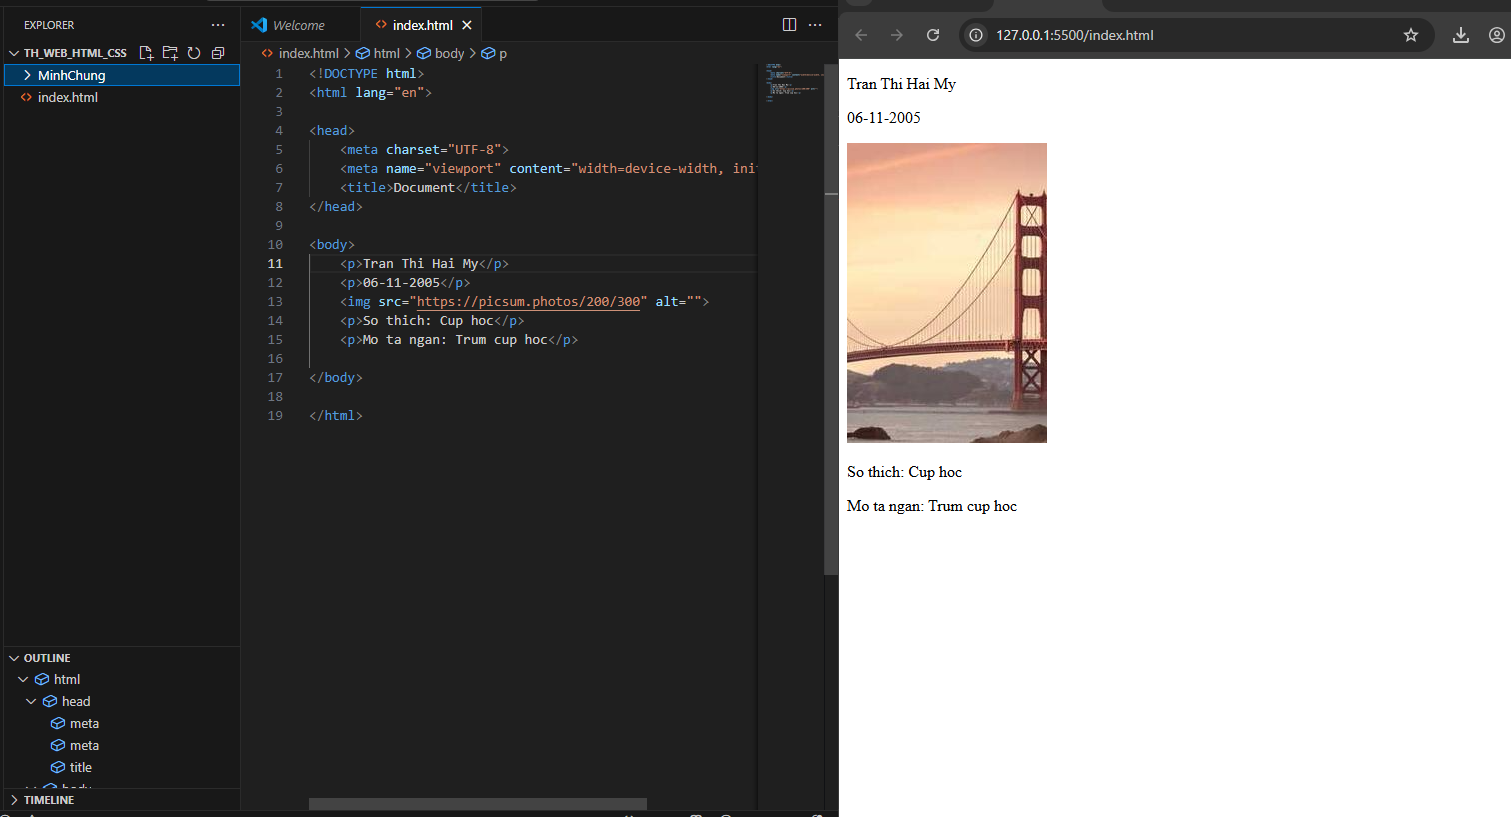
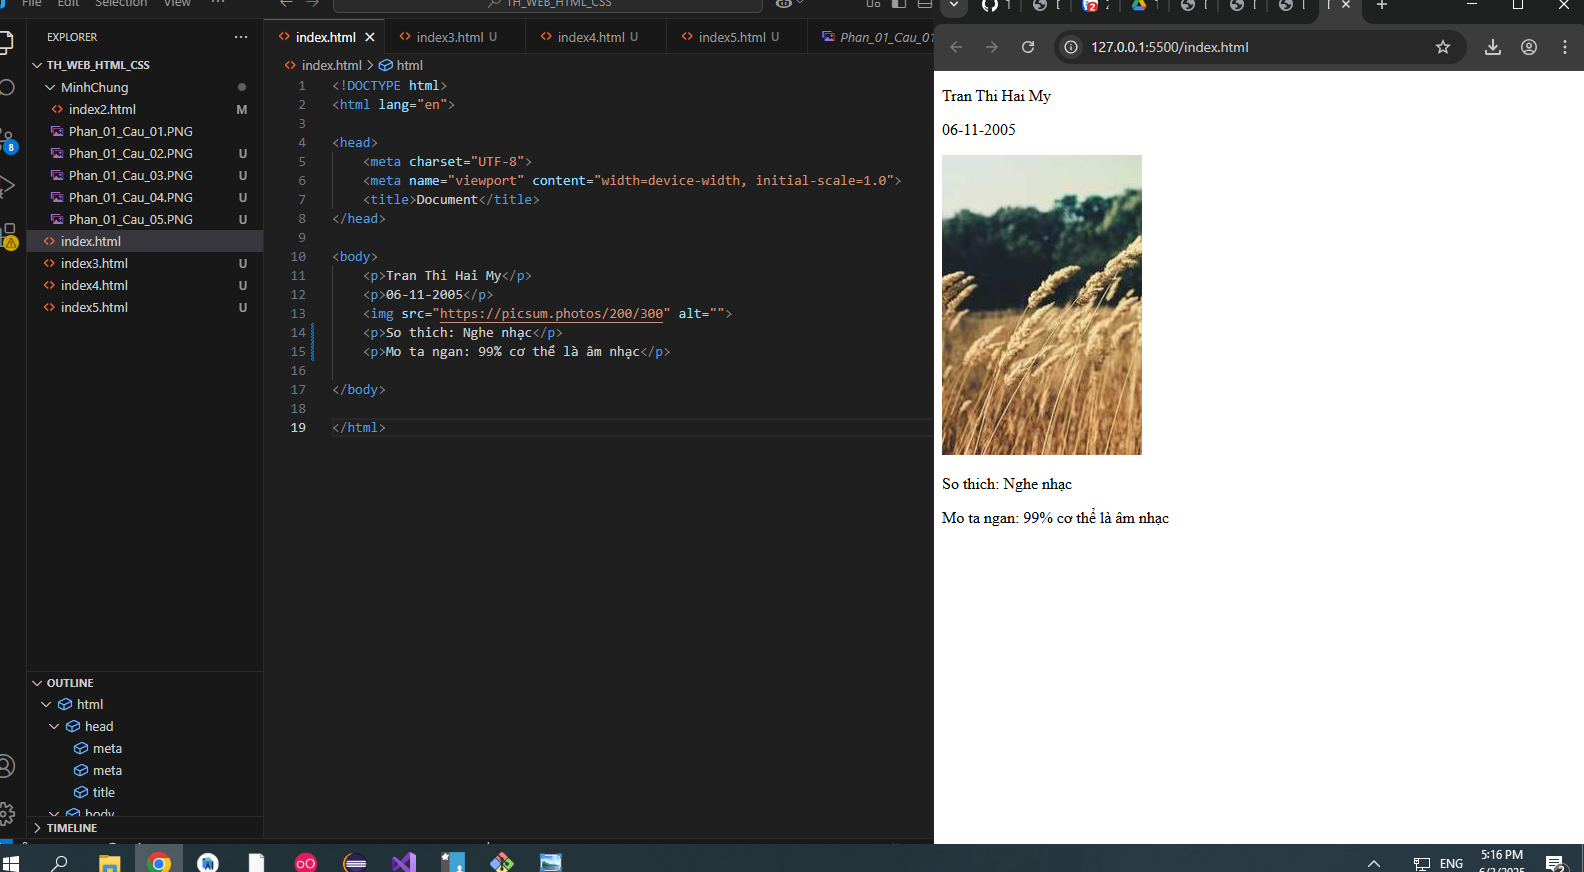
index3.html + mc cau 3

Changed region(s): [[0.0, 0.0, 1.0, 1.0]]

diff --git a/index3.html b/index3.html
@@ -1,0 +1,83 @@
+<!DOCTYPE html>
+<html lang="en">
+
+<head>
+    <meta charset="UTF-8">
+    <meta name="viewport" content="width=device-width, initial-scale=1.0">
+    <title>Thời khoá biểu</title>
+</head>
+
+<body bgcolor="#f0f0f0">
+    <center>
+        <table width="800" bgcolor="white" cellpadding="20">
+            <tr>
+                <td align="center">
+                    <font face="Arial" color="#2c3e50" size="6">
+                        <h1>Thời khoá biểu</h1>
+                    </font>
+                    <hr width="100%" size="2" color="#cccccc" noshade>
+                    <table border="1" width="100%" cellpadding="10" cellspacing="0" bgcolor="#ffffff">
+                        <tr bgcolor="#34495e">
+                            <th>
+                                <font face="Arial" color="white" size="4">Thứ</font>
+                            </th>
+                            <th>
+                                <font face="Arial" color="white" size="4">Môn học</font>
+                            </th>
+                            <th>
+                                <font face="Arial" color="white" size="4">Giờ học</font>
+                            </th>
+                            <th>
+                                <font face="Arial" color="white" size="4">Phòng học</font>
+                            </th>
+                        </tr>
+                        <tr bgcolor="#f8f9fa">
+                            <td align="center">
+                                <font face="Arial" size="3">Thứ 2</font>
+                            </td>
+                            <td>
+                                <font face="Arial" size="3">Lập trình Web</font>
+                            </td>
+                            <td align="center">
+                                <font face="Arial" size="3">7:30 - 9:30</font>
+                            </td>
+                            <td align="center">
+                                <font face="Arial" size="3">A1.01</font>
+                            </td>
+                        </tr>
+                        <tr>
+                            <td align="center">
+                                <font face="Arial" size="3">Thứ 4</font>
+                            </td>
+                            <td>
+                                <font face="Arial" size="3">Cơ sở dữ liệu</font>
+                            </td>
+                            <td align="center">
+                                <font face="Arial" size="3">9:30 - 11:30</font>
+                            </td>
+                            <td align="center">
+                                <font face="Arial" size="3">A2.01</font>
+                            </td>
+                        </tr>
+                        <tr bgcolor="#f8f9fa">
+                            <td align="center">
+                                <font face="Arial" size="3">Thứ 6</font>
+                            </td>
+                            <td>
+                                <font face="Arial" size="3">Trí tuệ nhân tạo</font>
+                            </td>
+                            <td align="center">
+                                <font face="Arial" size="3">13:30 - 15:30</font>
+                            </td>
+                            <td align="center">
+                                <font face="Arial" size="3">A3.01</font>
+                            </td>
+                        </tr>
+                    </table>
+                </td>
+            </tr>
+        </table>
+    </center>
+</body>
+
+</html>

diff --git a/index4.html b/index4.html
@@ -1,0 +1,32 @@
+<!DOCTYPE html>
+<html lang="en">
+
+<head>
+    <meta charset="UTF-8">
+    <meta name="viewport" content="width=device-width, initial-scale=1.0">
+    <title>Dang kí thông tin cá nhân</title>
+</head>
+
+<body>
+    <h2>Đăng kí thông tin cá nhân</h2>
+    <form>
+        <label>Họ tên:</label><br>
+        <input type="text" name="name"><br><br>
+
+        <label>Email:</label><br>
+        <input type="email" name="email"><br><br>
+
+        <label>Số Điện Thoại:</label><br>
+        <input type="tel" name="phone"><br><br>
+
+        <label>Giới tính:</label>
+        <input type="radio" name="gender" value="Nam">Nam
+        <input type="radio" name="gender" value="Nữ">Nữ
+        <input type="radio" name="gender" value="Khác">Khác<br><br>
+
+        <button type="submit">Gửi</button>
+    </form>
+
+</body>
+
+</html>

diff --git a/index5.html b/index5.html
@@ -1,0 +1,25 @@
+<!DOCTYPE html>
+<html lang="en">
+
+<head>
+    <meta charset="UTF-8">
+    <meta name="viewport" content="width=device-width, initial-scale=1.0">
+    <title>Liên kết Link</title>
+    <style>
+        nav a {
+            margin-right: 15px;
+        }
+    </style>
+</head>
+
+<body>
+    <h2>Liên kết</h2>
+    <nav>
+        <a href="https://www.facebook.com/haimy611205" target="_blank">Facebook</a>
+        <a href="https://www.instagram.com/hhh_yyymeo/" target="_blank">Instagram</a>
+        <a href="https://www.tiktok.com/@hmy0611?_" target="_blank">Tik Tok</a>
+    </nav>
+
+</body>
+
+</html>

diff --git a/MinhChung/index2.html b/MinhChung/index2.html
@@ -1,0 +1,21 @@
+<!DOCTYPE html>
+<html lang="en">
+
+<head>
+    <meta charset="UTF-8">
+    <meta name="viewport" content="width=device-width, initial-scale=1.0">
+    <title>Document</title>
+</head>
+
+<body>
+    <h2>Cau 02</h2>
+    <p>Cac mon hoc yeu thich</p>
+    <ul>
+        <li>He thong va cong nghe Web</li>
+        <li>Marketing so</li>
+        <li>Co so du lieu</li>
+    </ul>
+
+</body>
+
+</html>

diff --git a/index.html b/index.html
@@ -11,8 +11,8 @@
     <p>Tran Thi Hai My</p>
     <p>06-11-2005</p>
     <img src="https://picsum.photos/200/300" alt="">
-    <p>So thich: Cup hoc</p>
-    <p>Mo ta ngan: Trum cup hoc</p>
+    <p>So thich: Nghe nhạc</p>
+    <p>Mo ta ngan: 99% cơ thể là âm nhạc</p>
 
 </body>
 
